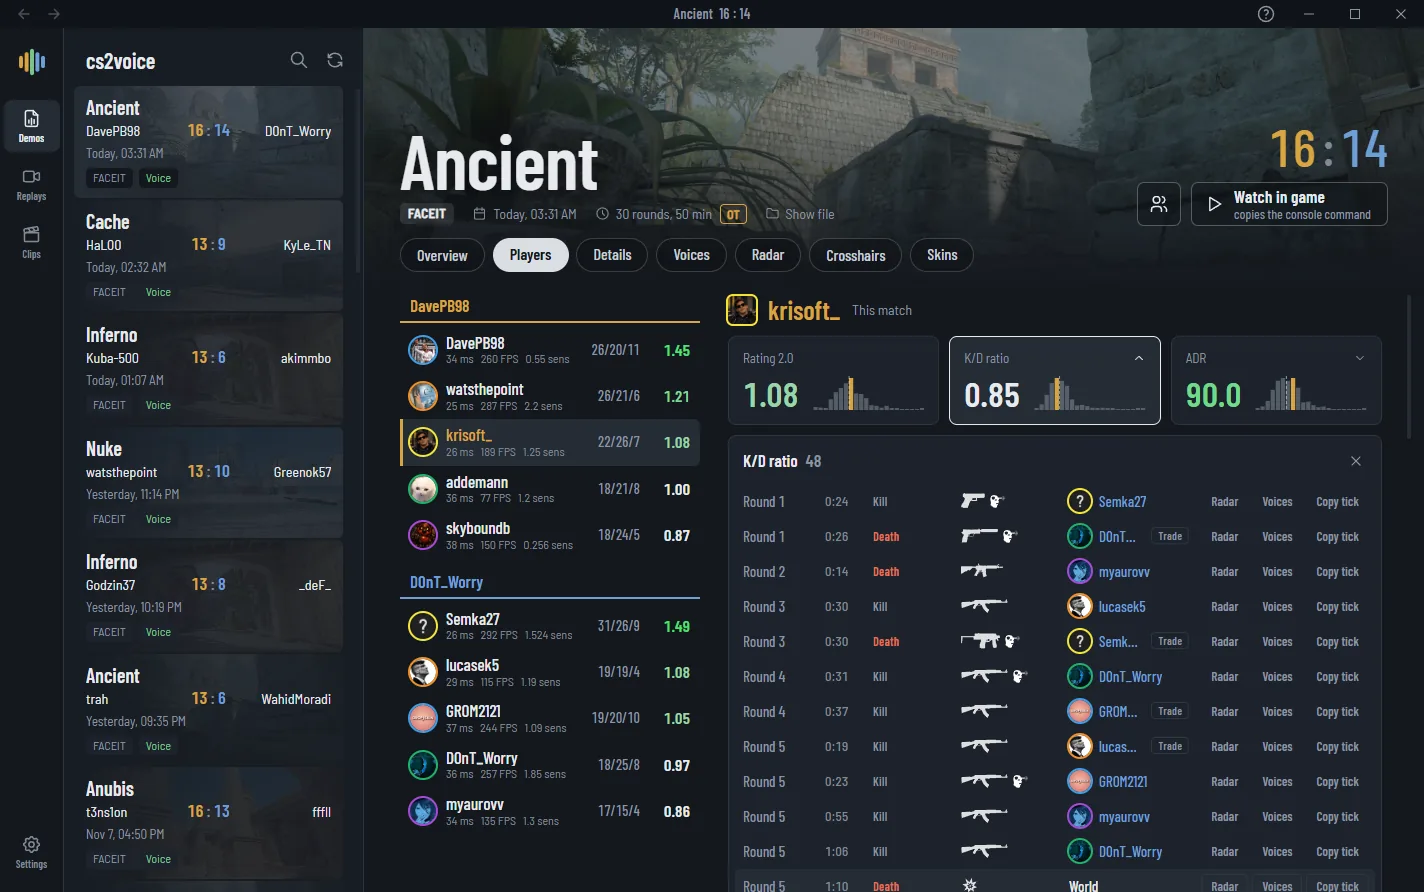
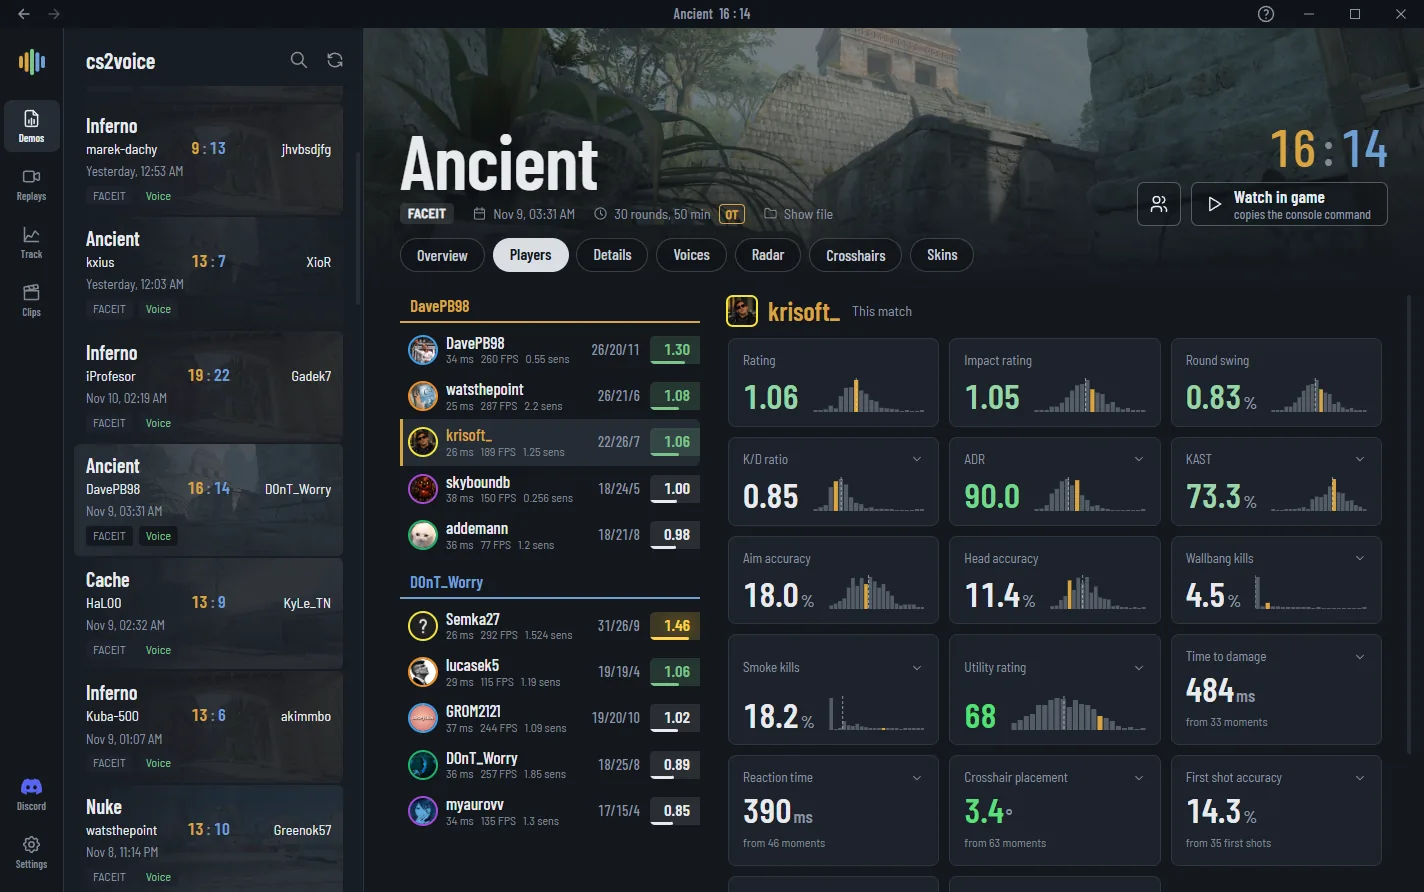
track section and new screenshots

diff --git a/index.html b/index.html
@@ -27,10 +27,14 @@
   "alternateName": "CS2 Voice",
   "operatingSystem": "Windows 10, Windows 11",
   "applicationCategory": "GameApplication",
-  "description": "Plays every player's voice chat from Counter-Strike 2 demos, with stats, a 2D radar replay, Steam recordings and clips.",
+  "description": "Free Windows app that plays every player's voice chat from Counter-Strike 2 demos on your PC, with stats, a 2D radar replay, Steam recordings and clips.",
+  "disambiguatingDescription": "A desktop app by krisoft20, distributed only on GitHub and the Microsoft Store. Not affiliated with cs2voice.com, which is a separate paid web service.",
   "url": "https://krisoft20.github.io/cs2voice/",
   "downloadUrl": "https://github.com/krisoft20/cs2voice/releases/latest",
   "screenshot": "https://krisoft20.github.io/cs2voice/img/og.png",
+  "sameAs": ["https://github.com/krisoft20/cs2voice", "https://apps.microsoft.com/detail/9pdv2hrck9ws"],
+  "author": { "@type": "Person", "name": "krisoft20", "url": "https://github.com/krisoft20" },
+  "isAccessibleForFree": true,
   "offers": { "@type": "Offer", "price": "0", "priceCurrency": "USD" }
 }
 </script>
@@ -258,7 +262,7 @@ footer { max-width: 1120px; margin: 0 auto; padding: 18px 16px 40px; color: var(
       <p class="cmd">status</p>
       <p class="out"><span class="tag">[Match]</span> Both teams, FACEIT levels, awards. Watch in game copies the console command.</p>
       <figure>
-        <img src="img/overview.webp" width="1424" height="892" alt="Overview tab: Anubis 13:10, both teams with K/D/A and rating, match awards below" loading="lazy">
+        <img src="img/overview.webp" width="1424" height="892" alt="Overview tab: Ancient 16:14, both teams with K/D/A and rating, match awards below" loading="lazy">
       </figure>
     </section>
 
@@ -266,7 +270,7 @@ footer { max-width: 1120px; margin: 0 auto; padding: 18px 16px 40px; color: var(
       <p class="cmd">tv_listen_voice_indices 6; playdemo "anubis.dem"</p>
       <p class="out"><span class="tag">[Voice]</span> Every player's voice, round by round, next to the kills.</p>
       <figure>
-        <img src="img/voices.webp" width="1424" height="892" alt="Voices tab: round 16 on Anubis, one lane per player with speech and kills" loading="lazy">
+        <img src="img/voices.webp" width="1424" height="892" alt="Voices tab: round 1 on Ancient, one lane per player with speech and kills" loading="lazy">
       </figure>
     </section>
 
@@ -282,11 +286,19 @@ footer { max-width: 1120px; margin: 0 auto; padding: 18px 16px 40px; color: var(
       <p class="cmd">replays</p>
       <p class="out"><span class="tag">[Replays]</span> Steam's recording of your match, lined up with the demo.</p>
       <figure>
-        <img src="img/replays.webp" width="1424" height="892" alt="Replays page: Steam recording of an Anubis match with kills listed per round" loading="lazy">
+        <img src="img/replays.webp" width="1424" height="892" alt="Replays page: Steam recording of a Mirage match with kills listed per round" loading="lazy">
       </figure>
       <p class="out after"><span class="tag">[Clips]</span> Cut a moment into an MP4 for Discord.</p>
       <figure>
         <img src="img/clip.webp" width="1424" height="892" alt="Clip editor: a 15 second range picked on the replay timeline, sized for Discord" loading="lazy">
+      </figure>
+    </section>
+
+    <section class="entry" id="track">
+      <p class="cmd">track</p>
+      <p class="out"><span class="tag">[Track]</span> Your rating, T and CT side, maps and FACEIT ELO across all your demos.</p>
+      <figure>
+        <img src="img/track.webp" width="1424" height="892" alt="Track page: rating, win rate, K/D, ADR and FACEIT ELO tiles, the last ten matches and an ELO chart" loading="lazy">
       </figure>
     </section>
 
@@ -313,6 +325,8 @@ footer { max-width: 1120px; margin: 0 auto; padding: 18px 16px 40px; color: var(
         </a>
       </div>
       <p class="out"><span class="tag">[cs2voice]</span> Only from here, the <a href="https://apps.microsoft.com/detail/9pdv2hrck9ws">Microsoft Store</a> and <a href="https://github.com/krisoft20/cs2voice">GitHub</a>. Not affiliated with Valve.</p>
+      <p class="out"><span class="tag">[cs2voice]</span> Questions and bugs go to <a href="https://discord.gg/4vsvva5GHM">Discord</a>.</p>
+      <p class="out"><span class="tag">[cs2voice]</span> cs2voice.com is a different, paid web service and has nothing to do with this app.</p>
     </section>
   </main>
 
@@ -337,6 +351,8 @@ const cmds = [
   ['radar', '2d replay and grenades', 'radar'],
   ['replays', 'steam recordings', 'replays'],
   ['clips', 'mp4 for discord', 'replays'],
+  ['track', 'your stats across demos', 'track'],
+  ['discord', 'questions and bugs', 'get'],
   ['stats', 'players, rounds, crosshairs, skins', 'more'],
   ['download', 'microsoft store or exe', 'get'],
 ]
